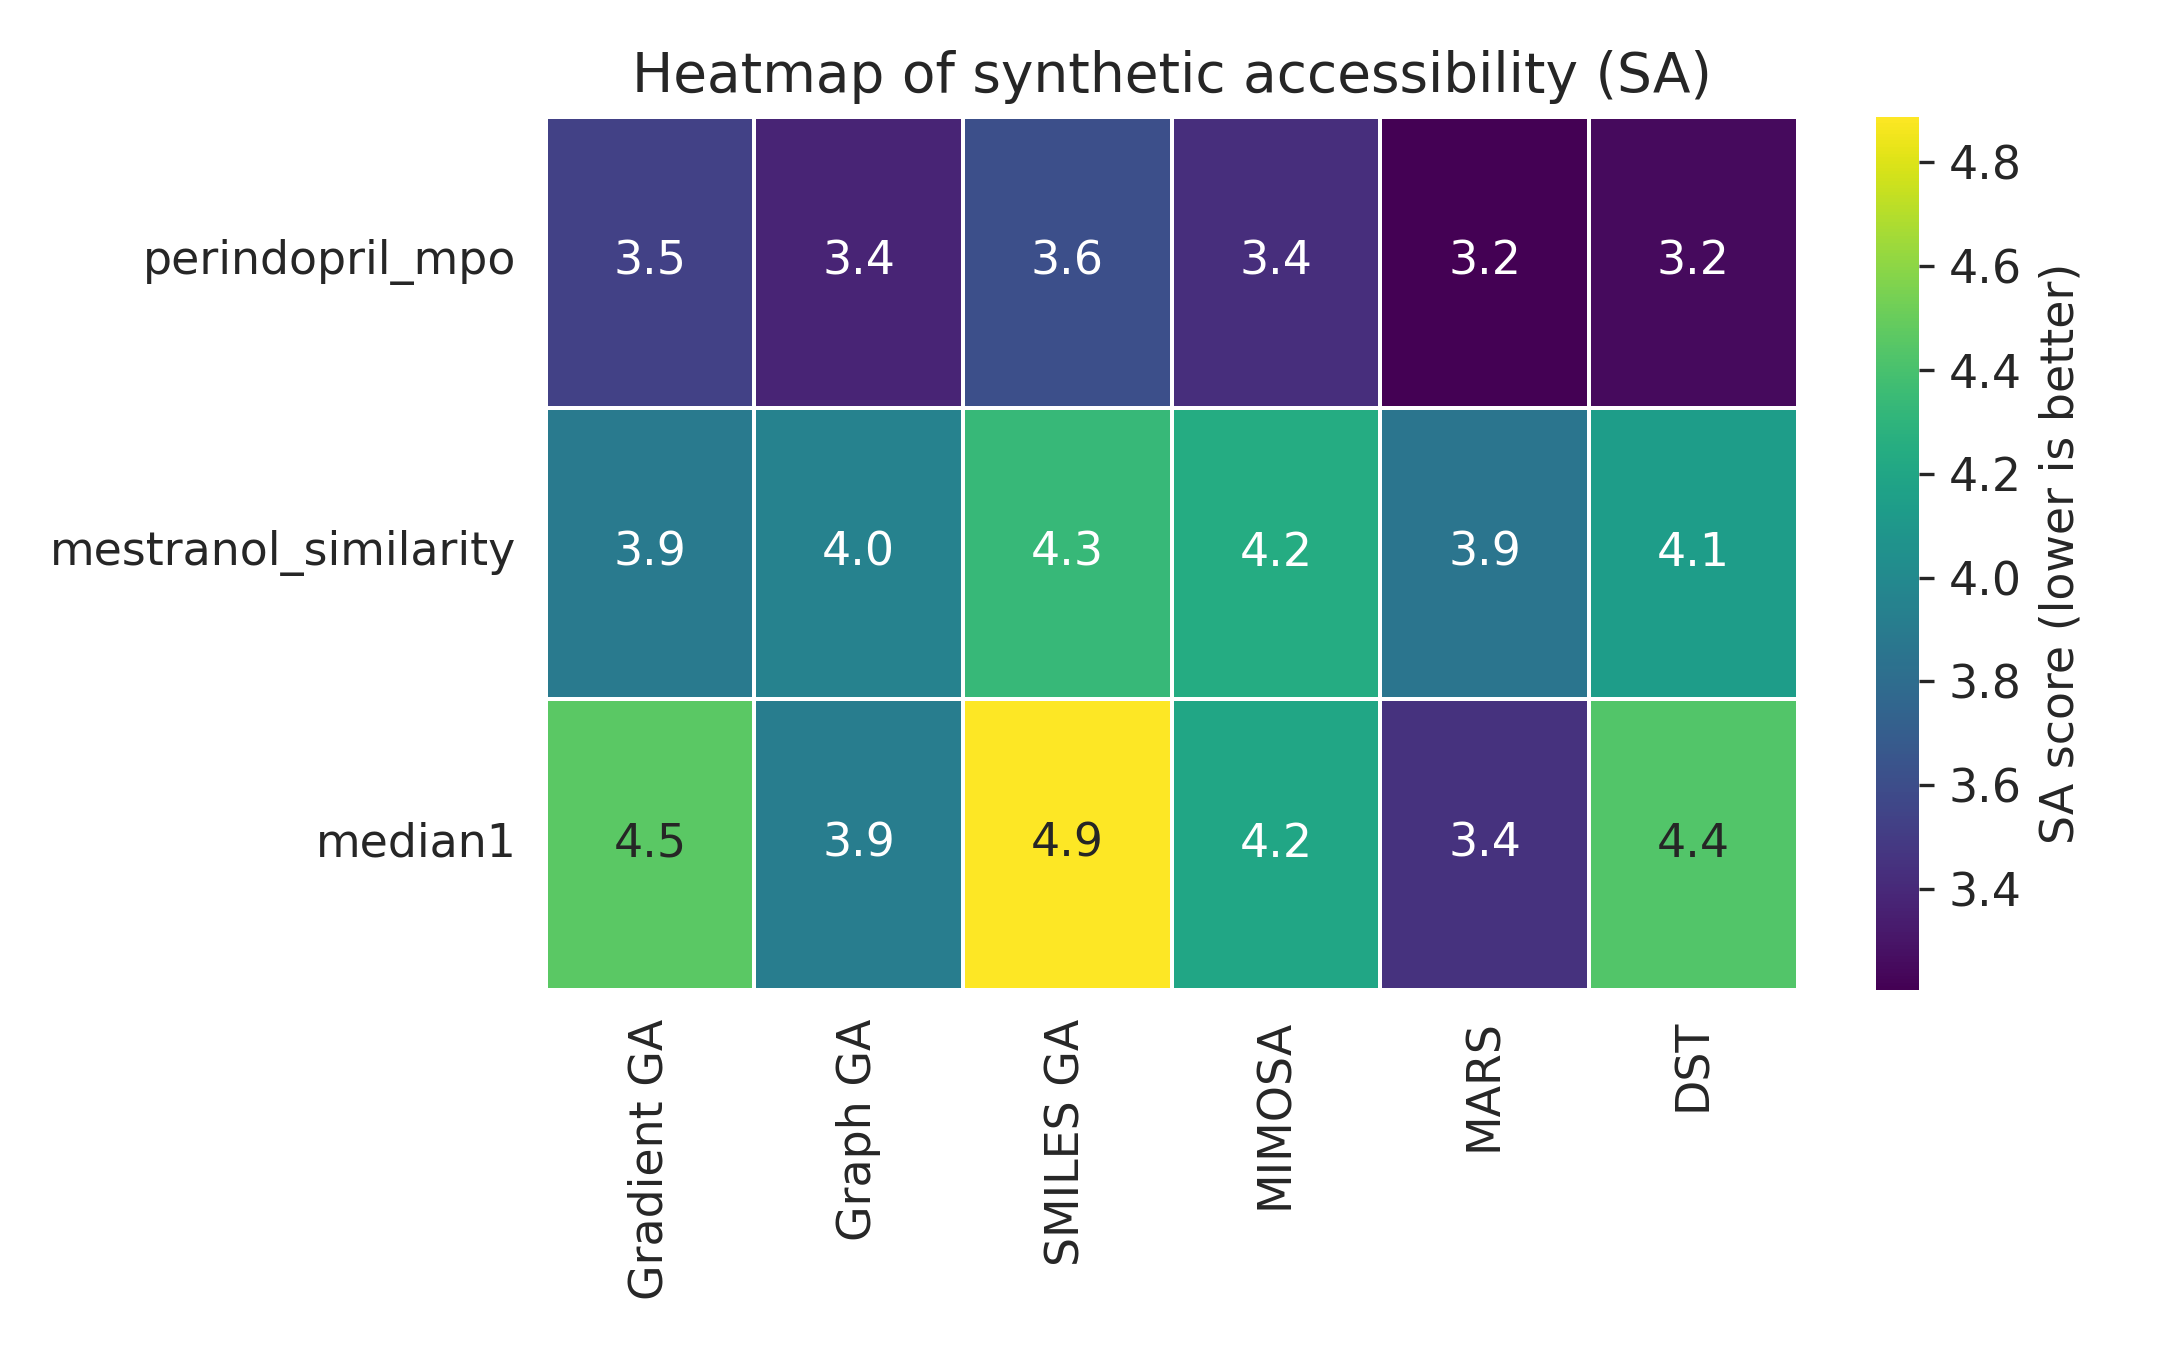
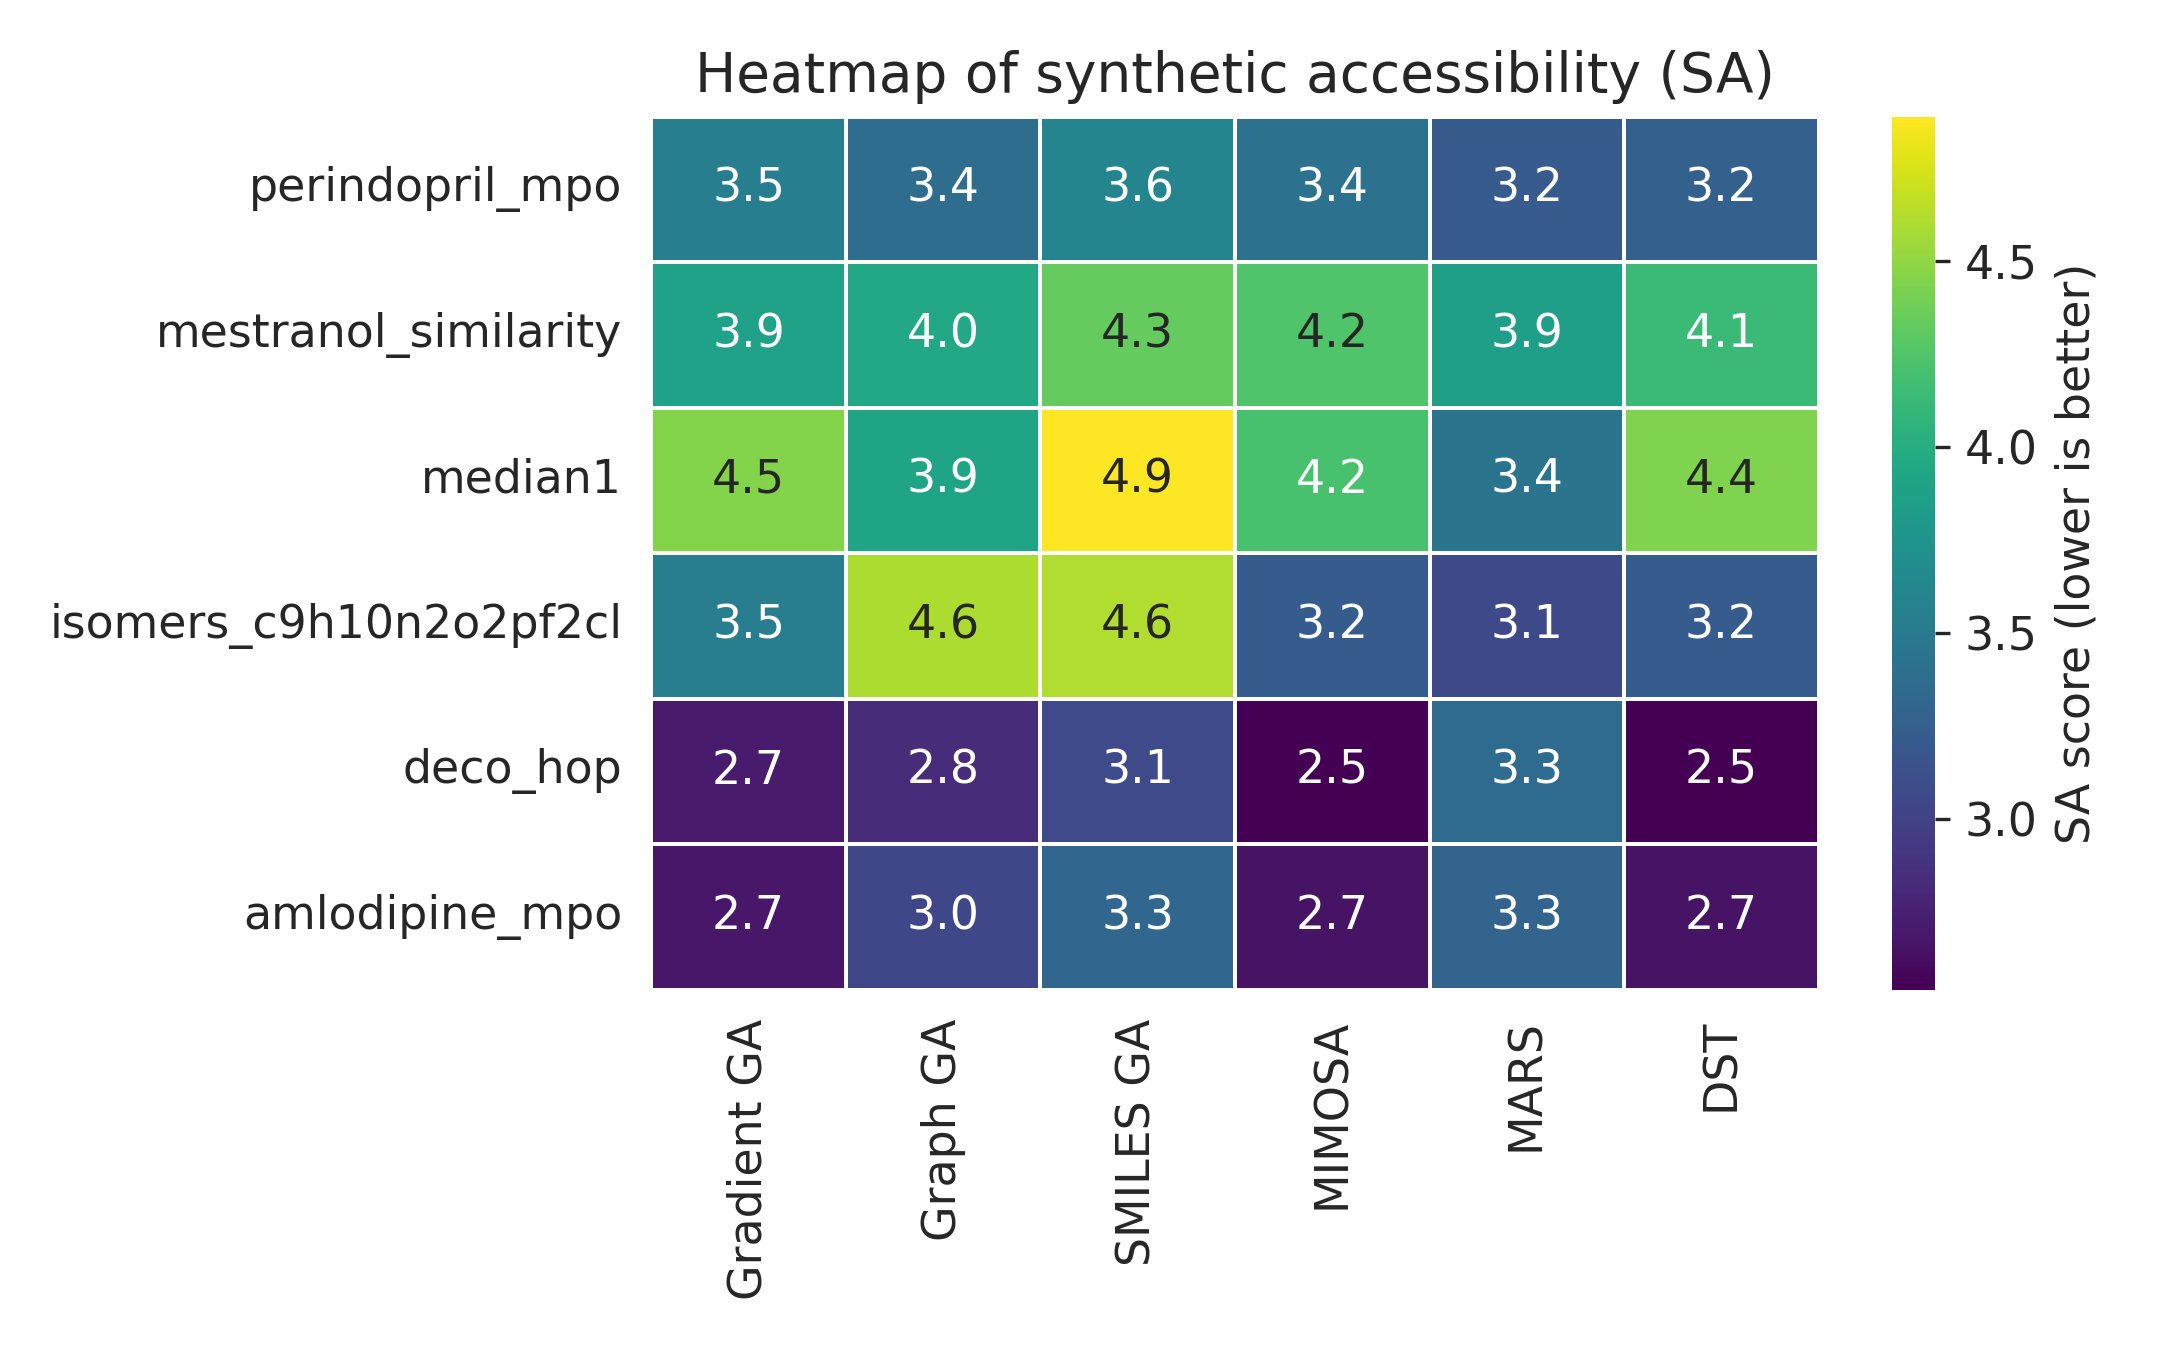
Fix GradientGA reproducibility

diff --git a/mol_opt/scripts/make_table.py b/mol_opt/scripts/make_table.py
@@ -1,0 +1,134 @@
+import yaml
+import numpy as np
+import os
+import csv
+from collections import defaultdict
+
+# =========================
+# CONFIG (PAPER SETTING)
+METHODS = {
+    "gradient_ga": "Gradient GA",
+    "graph_ga": "Graph GA",
+    "smiles_ga": "SMILES GA",
+    "mars": "MARS",
+    "mimosa": "MIMOSA",
+    "dst": "DST",
+}
+
+ORACLES = [
+    "mestranol_similarity",
+    "amlodipine_mpo",
+    "perindopril_mpo",
+    "deco_hop",
+    "median1",
+    "isomers_c9h10n2o2pf2cl",
+]
+
+SEEDS = [0, 1, 2, 3, 4]
+MAX_CALLS = 2500
+FREQ_LOG = 100
+ROOT = "main"
+OUT_CSV = "results/table2_2500.csv"
+# =========================
+
+
+def top_auc(buffer, top_n, finish=True):
+    ordered = list(sorted(buffer.items(), key=lambda kv: kv[1][1]))
+    prev = 0
+    s = 0
+    called = 0
+
+    for idx in range(FREQ_LOG, min(len(buffer), MAX_CALLS), FREQ_LOG):
+        temp = ordered[:idx]
+        temp = sorted(temp, key=lambda kv: kv[1][0], reverse=True)[:top_n]
+        topn = np.mean([x[1][0] for x in temp])
+        s += FREQ_LOG * (topn + prev) / 2
+        prev = topn
+        called = idx
+
+    temp = sorted(ordered, key=lambda kv: kv[1][0], reverse=True)[:top_n]
+    topn = np.mean([x[1][0] for x in temp])
+    s += (len(buffer) - called) * (topn + prev) / 2
+
+    if finish and len(buffer) < MAX_CALLS:
+        s += (MAX_CALLS - len(buffer)) * topn
+
+    return s / MAX_CALLS
+
+
+def load_yaml(method, oracle, seed):
+    path = f"{ROOT}/{method}/results/results_{method}_{oracle}_{seed}.yaml"
+    if not os.path.exists(path):
+        return None
+    with open(path) as f:
+        return yaml.safe_load(f)
+
+
+def compute_metrics(buffer):
+    items = sorted(buffer.items(), key=lambda kv: kv[1][0], reverse=True)
+    scores = [x[1][0] for x in items]
+
+    avg_top10 = np.mean(scores[:10])
+    auc1 = top_auc(buffer, 1)
+    auc10 = top_auc(buffer, 10)
+    auc100 = top_auc(buffer, 100)
+
+    return avg_top10, auc1, auc10, auc100
+
+
+# =========================
+# MAIN
+os.makedirs("results", exist_ok=True)
+
+print("\n=== TABLE 2 (2500 Oracle Calls) ===\n")
+
+with open(OUT_CSV, "w", newline="") as f:
+    writer = csv.writer(f)
+    writer.writerow([
+        "Oracle",
+        "Method",
+        "AvgTop10_mean", "AvgTop10_std",
+        "AUC1_mean", "AUC1_std",
+        "AUC10_mean", "AUC10_std",
+        "AUC100_mean", "AUC100_std",
+    ])
+
+    for oracle in ORACLES:
+        print(f"\n--- {oracle.upper()} ---")
+
+        for method, label in METHODS.items():
+            rows = []
+
+            for seed in SEEDS:
+                buffer = load_yaml(method, oracle, seed)
+                if buffer is None:
+                    continue
+                rows.append(compute_metrics(buffer))
+
+            if len(rows) == 0:
+                continue
+
+            rows = np.array(rows)
+            mean = rows.mean(axis=0)
+            std = rows.std(axis=0)
+
+            # ===== TERMINAL (LaTeX-style) =====
+            print(
+                f"{label:12s} & "
+                f"{mean[0]:.4f}±{std[0]:.4f} & "
+                f"{mean[1]:.4f}±{std[1]:.4f} & "
+                f"{mean[2]:.4f}±{std[2]:.4f} & "
+                f"{mean[3]:.4f}±{std[3]:.4f} \\\\"
+            )
+
+            # ===== CSV =====
+            writer.writerow([
+                oracle,
+                label,
+                f"{mean[0]:.6f}", f"{std[0]:.6f}",
+                f"{mean[1]:.6f}", f"{std[1]:.6f}",
+                f"{mean[2]:.6f}", f"{std[2]:.6f}",
+                f"{mean[3]:.6f}", f"{std[3]:.6f}",
+            ])
+
+print(f"\nSaved CSV → {OUT_CSV}\n")

diff --git a/mol_opt/scripts/plot_heatmap.py b/mol_opt/scripts/plot_heatmap.py
@@ -38,6 +38,9 @@ ORACLES = [
     "perindopril_mpo",
     "mestranol_similarity",
     "median1",
+    "isomers_c9h10n2o2pf2cl",
+    "deco_hop",
+    "amlodipine_mpo"
 ]
 
 SEEDS = [0, 1, 2, 3, 4]
